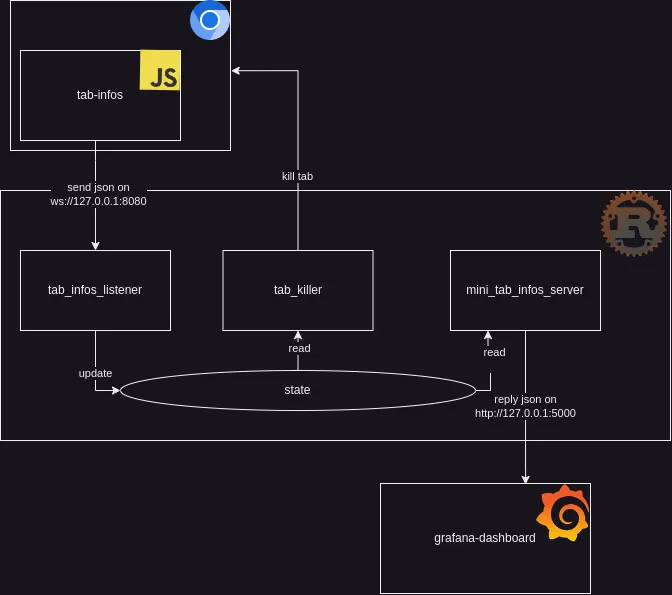
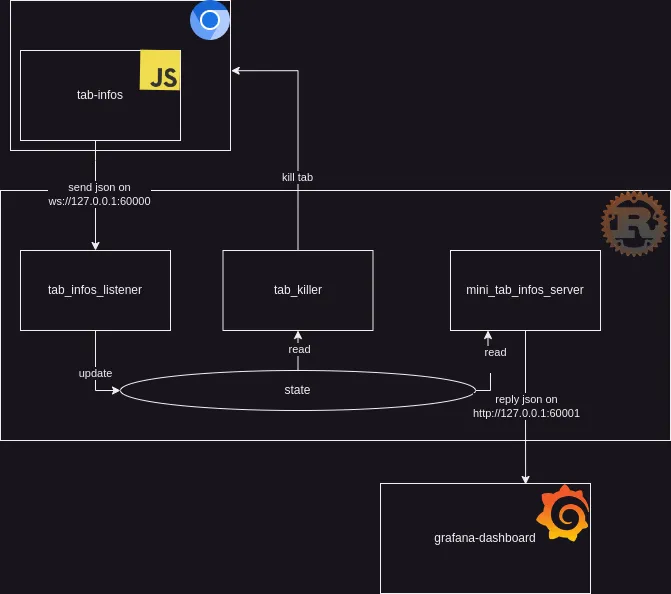
Change port to 60000 and 60001

diff --git a/tab-infos/background.js b/tab-infos/background.js
@@ -1,7 +1,7 @@
 let ws;
 
 function initWs() {
-  ws = new WebSocket("ws://127.0.0.1:8080");
+  ws = new WebSocket("ws://127.0.0.1:60000");
 }
 
 async function getTabInfos() {

diff --git a/src/main.rs b/src/main.rs
@@ -30,13 +30,13 @@ fn main() {
     // Sharing tab information between threads
     let status = Arc::new(Mutex::new(Status::default()));
 
-    // Waiting for json data and update tab_infos, bind on 127.0.0.1:8080
+    // Waiting for json data and update tab_infos, bind on ws://127.0.0.1:60000
     let tab_data_listener = spawn_tab_data_listener(Arc::clone(&status));
 
     // Terminate tab by given strategy
     let _tab_killer = spawn_tab_killer_thread(Arc::clone(&status), config.clone());
 
-    // Sharing vec of MiniTabInfo in json format, bind on 127.0.0.1:5000
+    // Sharing vec of MiniTabInfo in json format, bind on http://127.0.0.1:60001
     let _mini_tab_data_server = spawn_output_tab_data_server(Arc::clone(&status));
 
     tab_data_listener.join().unwrap();

diff --git a/src/tab_infos_listener.rs b/src/tab_infos_listener.rs
@@ -56,7 +56,7 @@ pub fn spawn_tab_data_listener(status: Arc<Mutex<Status>>) -> JoinHandle<()> {
 }
 
 fn listen_for_tab_data(status: Arc<Mutex<Status>>) {
-    listen("127.0.0.1:8080", move |_| {
+    listen("127.0.0.1:60000", move |_| {
             let status = Arc::clone(&status);
             move |msg| {
                 if let Message::Text(msg) = msg {

diff --git a/src/mini_tab_infos_server.rs b/src/mini_tab_infos_server.rs
@@ -29,7 +29,7 @@ struct OutputTabInfo {
 
 pub fn spawn_output_tab_data_server(status: Arc<Mutex<Status>>) -> JoinHandle<()> {
     spawn(move || {
-        let addr = "127.0.0.1:5000";
+        let addr = "127.0.0.1:60001";
         serve_output_tab_data(status, addr);
     })
 }

diff --git a/README.md b/README.md
@@ -18,7 +18,7 @@ By setting these parameters, users can decide how the program handles memory ass
 
 - Build and run "tab-memory-manager"
 
-  It listen on "127.0.0.1:5000" for tab information, which should be given by browser extension.
+  It listen on "ws://127.0.0.1:60000" for tab information, which should be connect by browser extension.
 
   ```shell
   cargo run -r
@@ -75,7 +75,7 @@ sudo pacman -Ss grafana
 
 - Add data source (json)
 
-  Set url to "127.0.0.1:5000"
+  Set url to "http://127.0.0.1:60001"
 
 - Install grafana plugin
 
